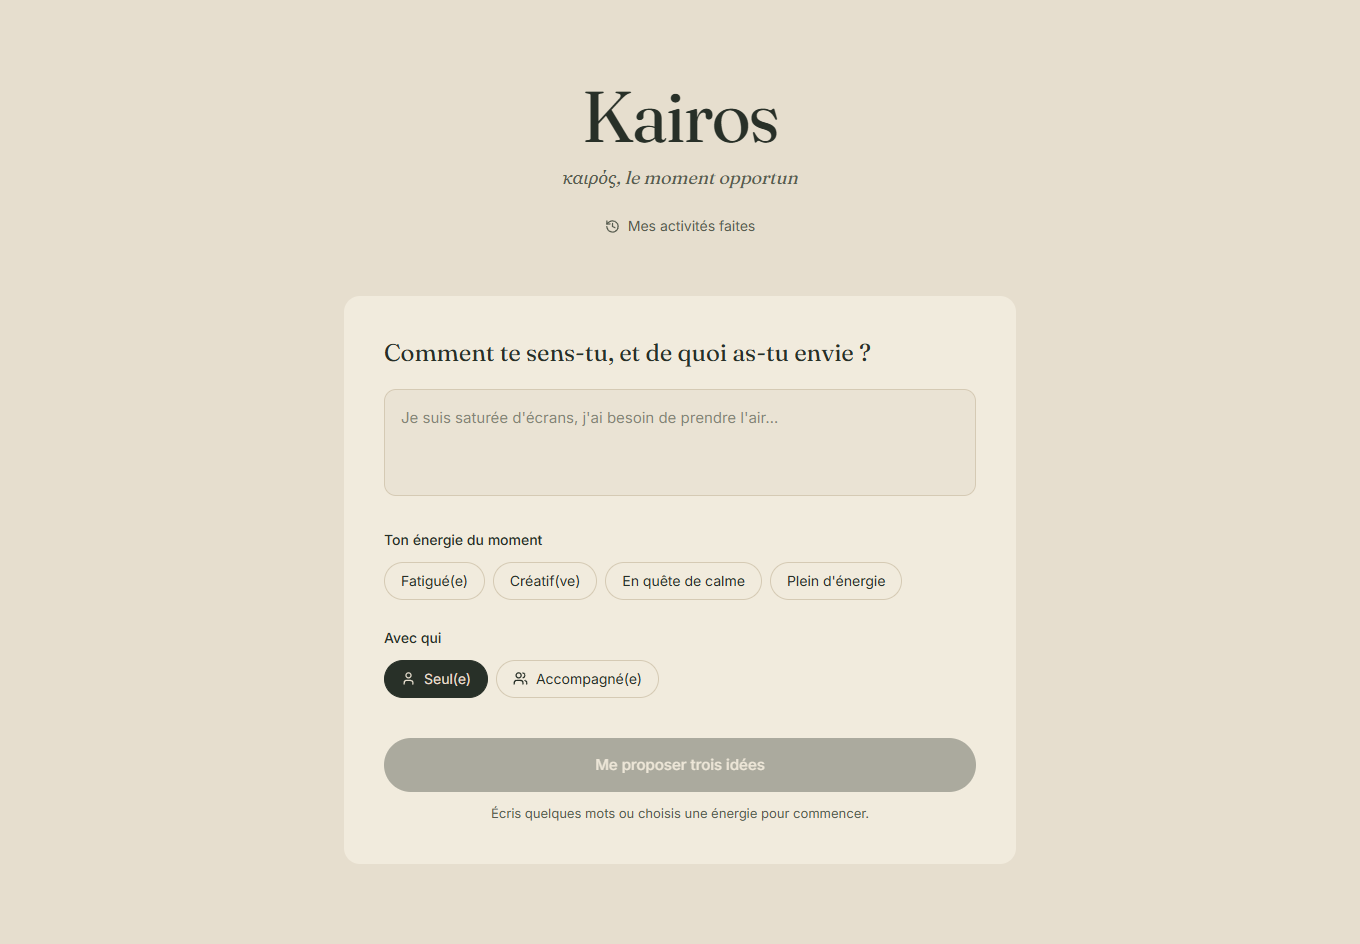
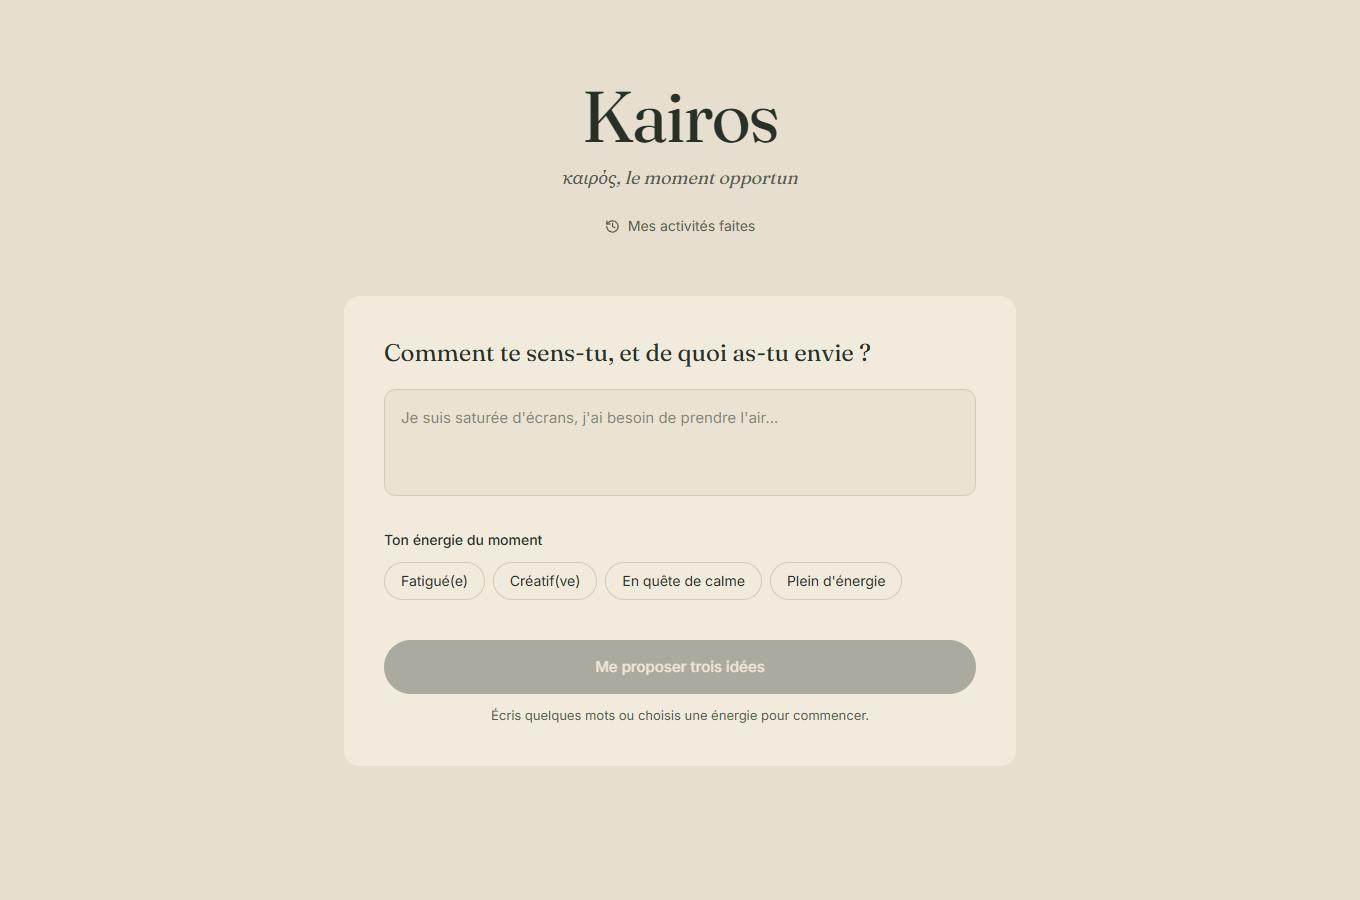
Remove the "Avec qui" (alone / with someone) option
It was only passed to the LLM as a bare flag and had no effect on places
or fallback ideas.

- Drop the option from the form and the is_alone field from the API
- Update README, handover guide and form screenshots

diff --git a/frontend/src/components/KairosForm.tsx b/frontend/src/components/KairosForm.tsx
@@ -1,6 +1,5 @@
 import { useState, type ReactNode } from "react";
 import { motion } from "framer-motion";
-import { User, Users } from "lucide-react";
 import type { RecommendRequest } from "../types";
 
 const MOODS = ["Fatigué(e)", "Créatif(ve)", "En quête de calme", "Plein d'énergie"];
@@ -34,7 +33,6 @@ function Group({ legend, children }: { legend: string; children: ReactNode }) {
 export default function KairosForm({ initial, onSubmit }: Props) {
   const [text, setText] = useState(initial?.user_input ?? "");
   const [mood, setMood] = useState<string | null>(initial?.mood ?? null);
-  const [alone, setAlone] = useState(initial?.is_alone ?? true);
 
   const canSubmit = text.trim().length > 0 || mood !== null;
 
@@ -46,7 +44,7 @@ export default function KairosForm({ initial, onSubmit }: Props) {
       transition={{ duration: 0.4 }}
       onSubmit={(e) => {
         e.preventDefault();
-        if (canSubmit) onSubmit({ user_input: text.trim(), mood, is_alone: alone, max_options: 3 });
+        if (canSubmit) onSubmit({ user_input: text.trim(), mood, max_options: 3 });
       }}
       className="mx-auto w-full max-w-2xl rounded-2xl bg-surface p-6 sm:p-10"
     >
@@ -66,11 +64,6 @@ export default function KairosForm({ initial, onSubmit }: Props) {
         {MOODS.map((m) => (
           <Chip key={m} active={mood === m} onClick={() => setMood(mood === m ? null : m)}>{m}</Chip>
         ))}
-      </Group>
-
-      <Group legend="Avec qui">
-        <Chip active={alone} onClick={() => setAlone(true)}><User size={15} /> Seul(e)</Chip>
-        <Chip active={!alone} onClick={() => setAlone(false)}><Users size={15} /> Accompagné(e)</Chip>
       </Group>
 
       <button

diff --git a/frontend/src/types.ts b/frontend/src/types.ts
@@ -26,7 +26,6 @@ export interface Recommendation {
 export interface RecommendRequest {
   user_input: string;
   mood: string | null;
-  is_alone: boolean;
   max_options: number;
   lat?: number | null;
   lon?: number | null;

diff --git a/backend/app/recommender.py b/backend/app/recommender.py
@@ -237,7 +237,7 @@ async def generate_activities(req: RecommendRequest) -> list[Cand]:
             )},
             {"role": "user", "content": (
                 f"Demande: {req.user_input or 'une pause'}. Humeur: {req.mood or 'non précisée'}. "
-                f"Seul(e): {req.is_alone}. Évite ces activités déjà faites: {previous}. "
+                f"Évite ces activités déjà faites: {previous}. "
                 + ("/no_think" if LLM_PROVIDER == "local" else "")
             )},
         ],

diff --git a/backend/app/schemas.py b/backend/app/schemas.py
@@ -6,7 +6,6 @@ from pydantic import BaseModel, Field
 class RecommendRequest(BaseModel):
     user_input: str = ""
     mood: Optional[str] = None
-    is_alone: bool = True
     max_options: int = Field(3, ge=3, le=3)
     lat: Optional[float] = None  # position de l'utilisateur (gÃ©olocalisation navigateur)
     lon: Optional[float] = None

diff --git a/README.md b/README.md
@@ -19,8 +19,8 @@ more**, so you can choose quickly, put the phone down and go.
 
 ## What Kairos does
 
-- **Understands your request**: your mood, what you feel like doing ("a quiet café to read"),
-  and whether you're alone or with someone.
+- **Understands your request**: your mood and what you feel like doing ("a quiet café to
+  read").
 - **Generates tailored activities** with an LLM, each with steps to follow, instead of picking
   from a fixed catalog.
 - **Finds real places around you** (cafés, parks, museums, libraries, galleries) within 5 km.
@@ -31,7 +31,7 @@ more**, so you can choose quickly, put the phone down and go.
   geolocation it suggests activities with no place attached.
 
 <p align="center">
-  <img src="docs/images/formulaire.png" alt="Kairos form: free text, current energy and who you're with" width="620">
+  <img src="docs/images/formulaire.png" alt="Kairos form: free text and current energy" width="620">
   &nbsp;
   <img src="docs/images/mobile.png" alt="Kairos on mobile" width="190">
 </p>
@@ -135,7 +135,6 @@ Browser (React)  ──  mood, text, location  ────────▶  POST
 {
   "user_input": "J'ai envie d'un café calme pour lire",
   "mood": "Fatigué(e)",
-  "is_alone": true,
   "max_options": 3,
   "lat": 34.0209,
   "lon": -6.8416

diff --git a/docs/REPRISE.md b/docs/REPRISE.md
@@ -242,6 +242,11 @@ recherche à Rabat (cafés, et mélange lieu + idées).
 
 **Vérifié à Rabat :** 8 lieux, tous ouverts (ou sans horaires connus), de 620 m à 2,3 km.
 
+- **Choix « Avec qui » retiré** : il n'était transmis à l'IA que sous la forme « Seul(e): True »,
+  sans consigne, et n'influençait ni les lieux ni les idées de secours. Le champ `is_alone` a
+  été retiré du frontend, de `schemas.py` et du prompt (`recommender.py`). Un ancien client qui
+  l'envoie encore n'est pas bloqué : FastAPI ignore les champs en trop.
+
 ---
 
 ## 5. Configuration (`backend/.env`)
